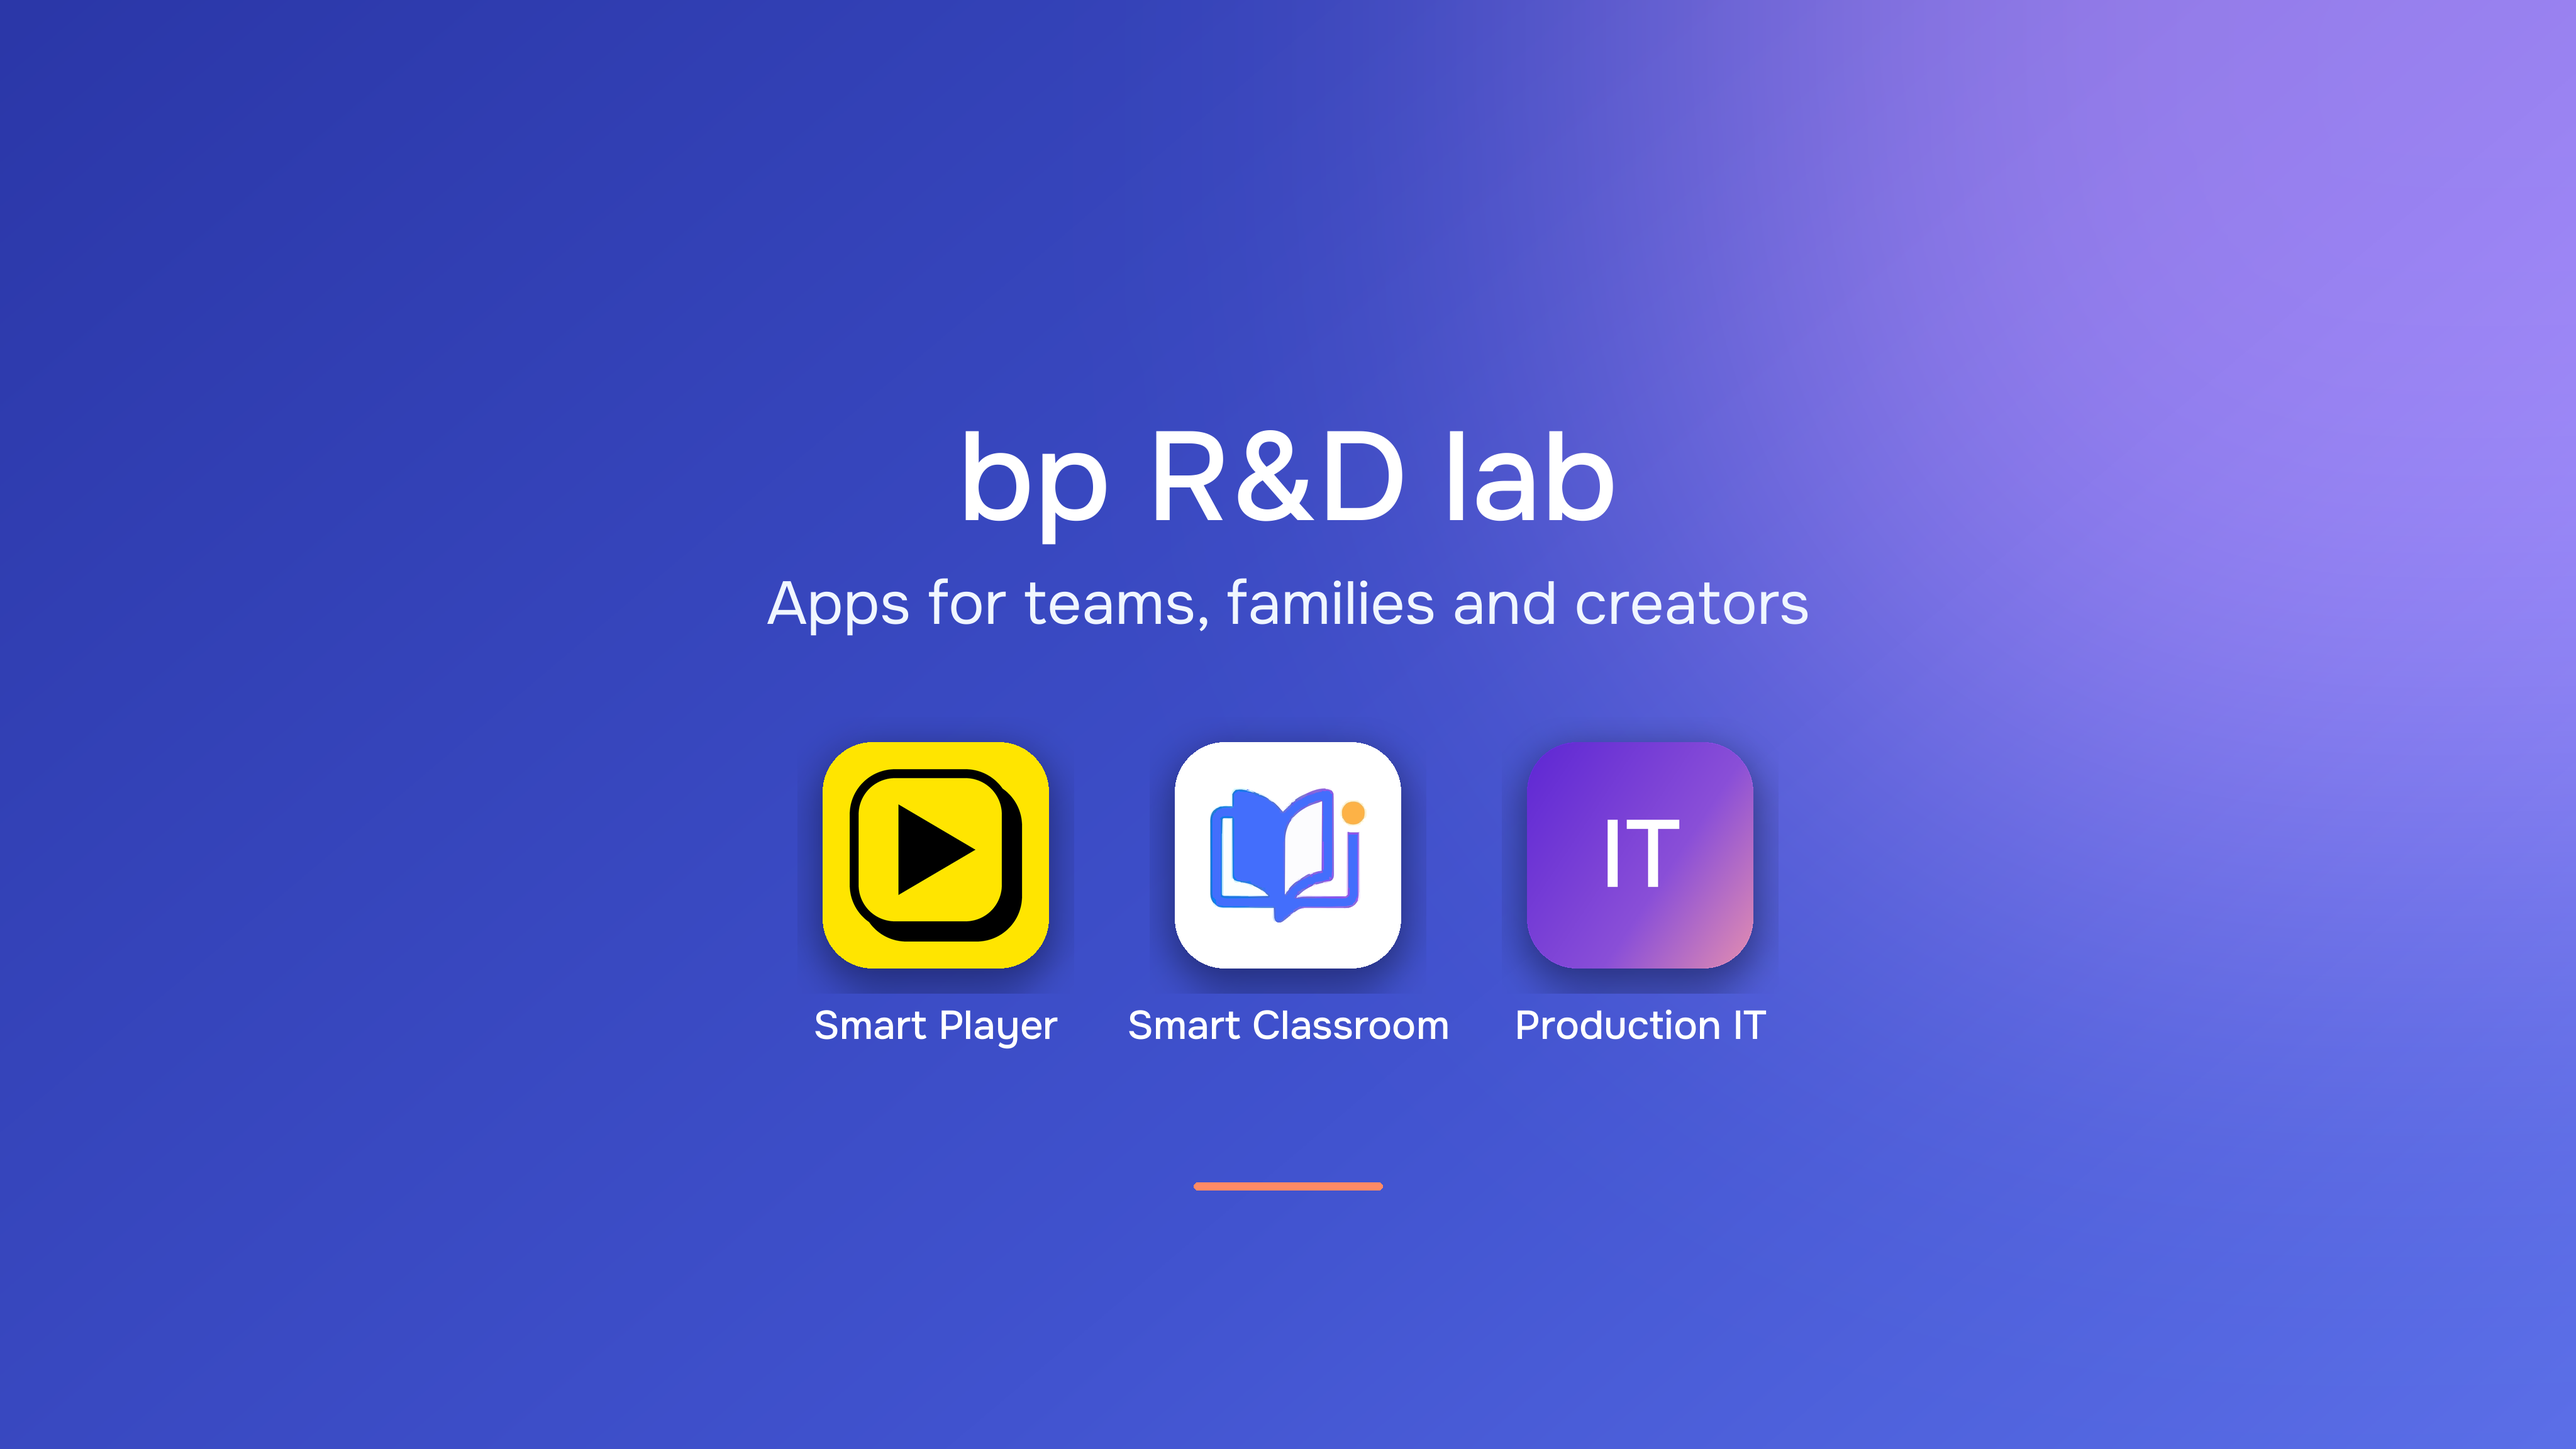
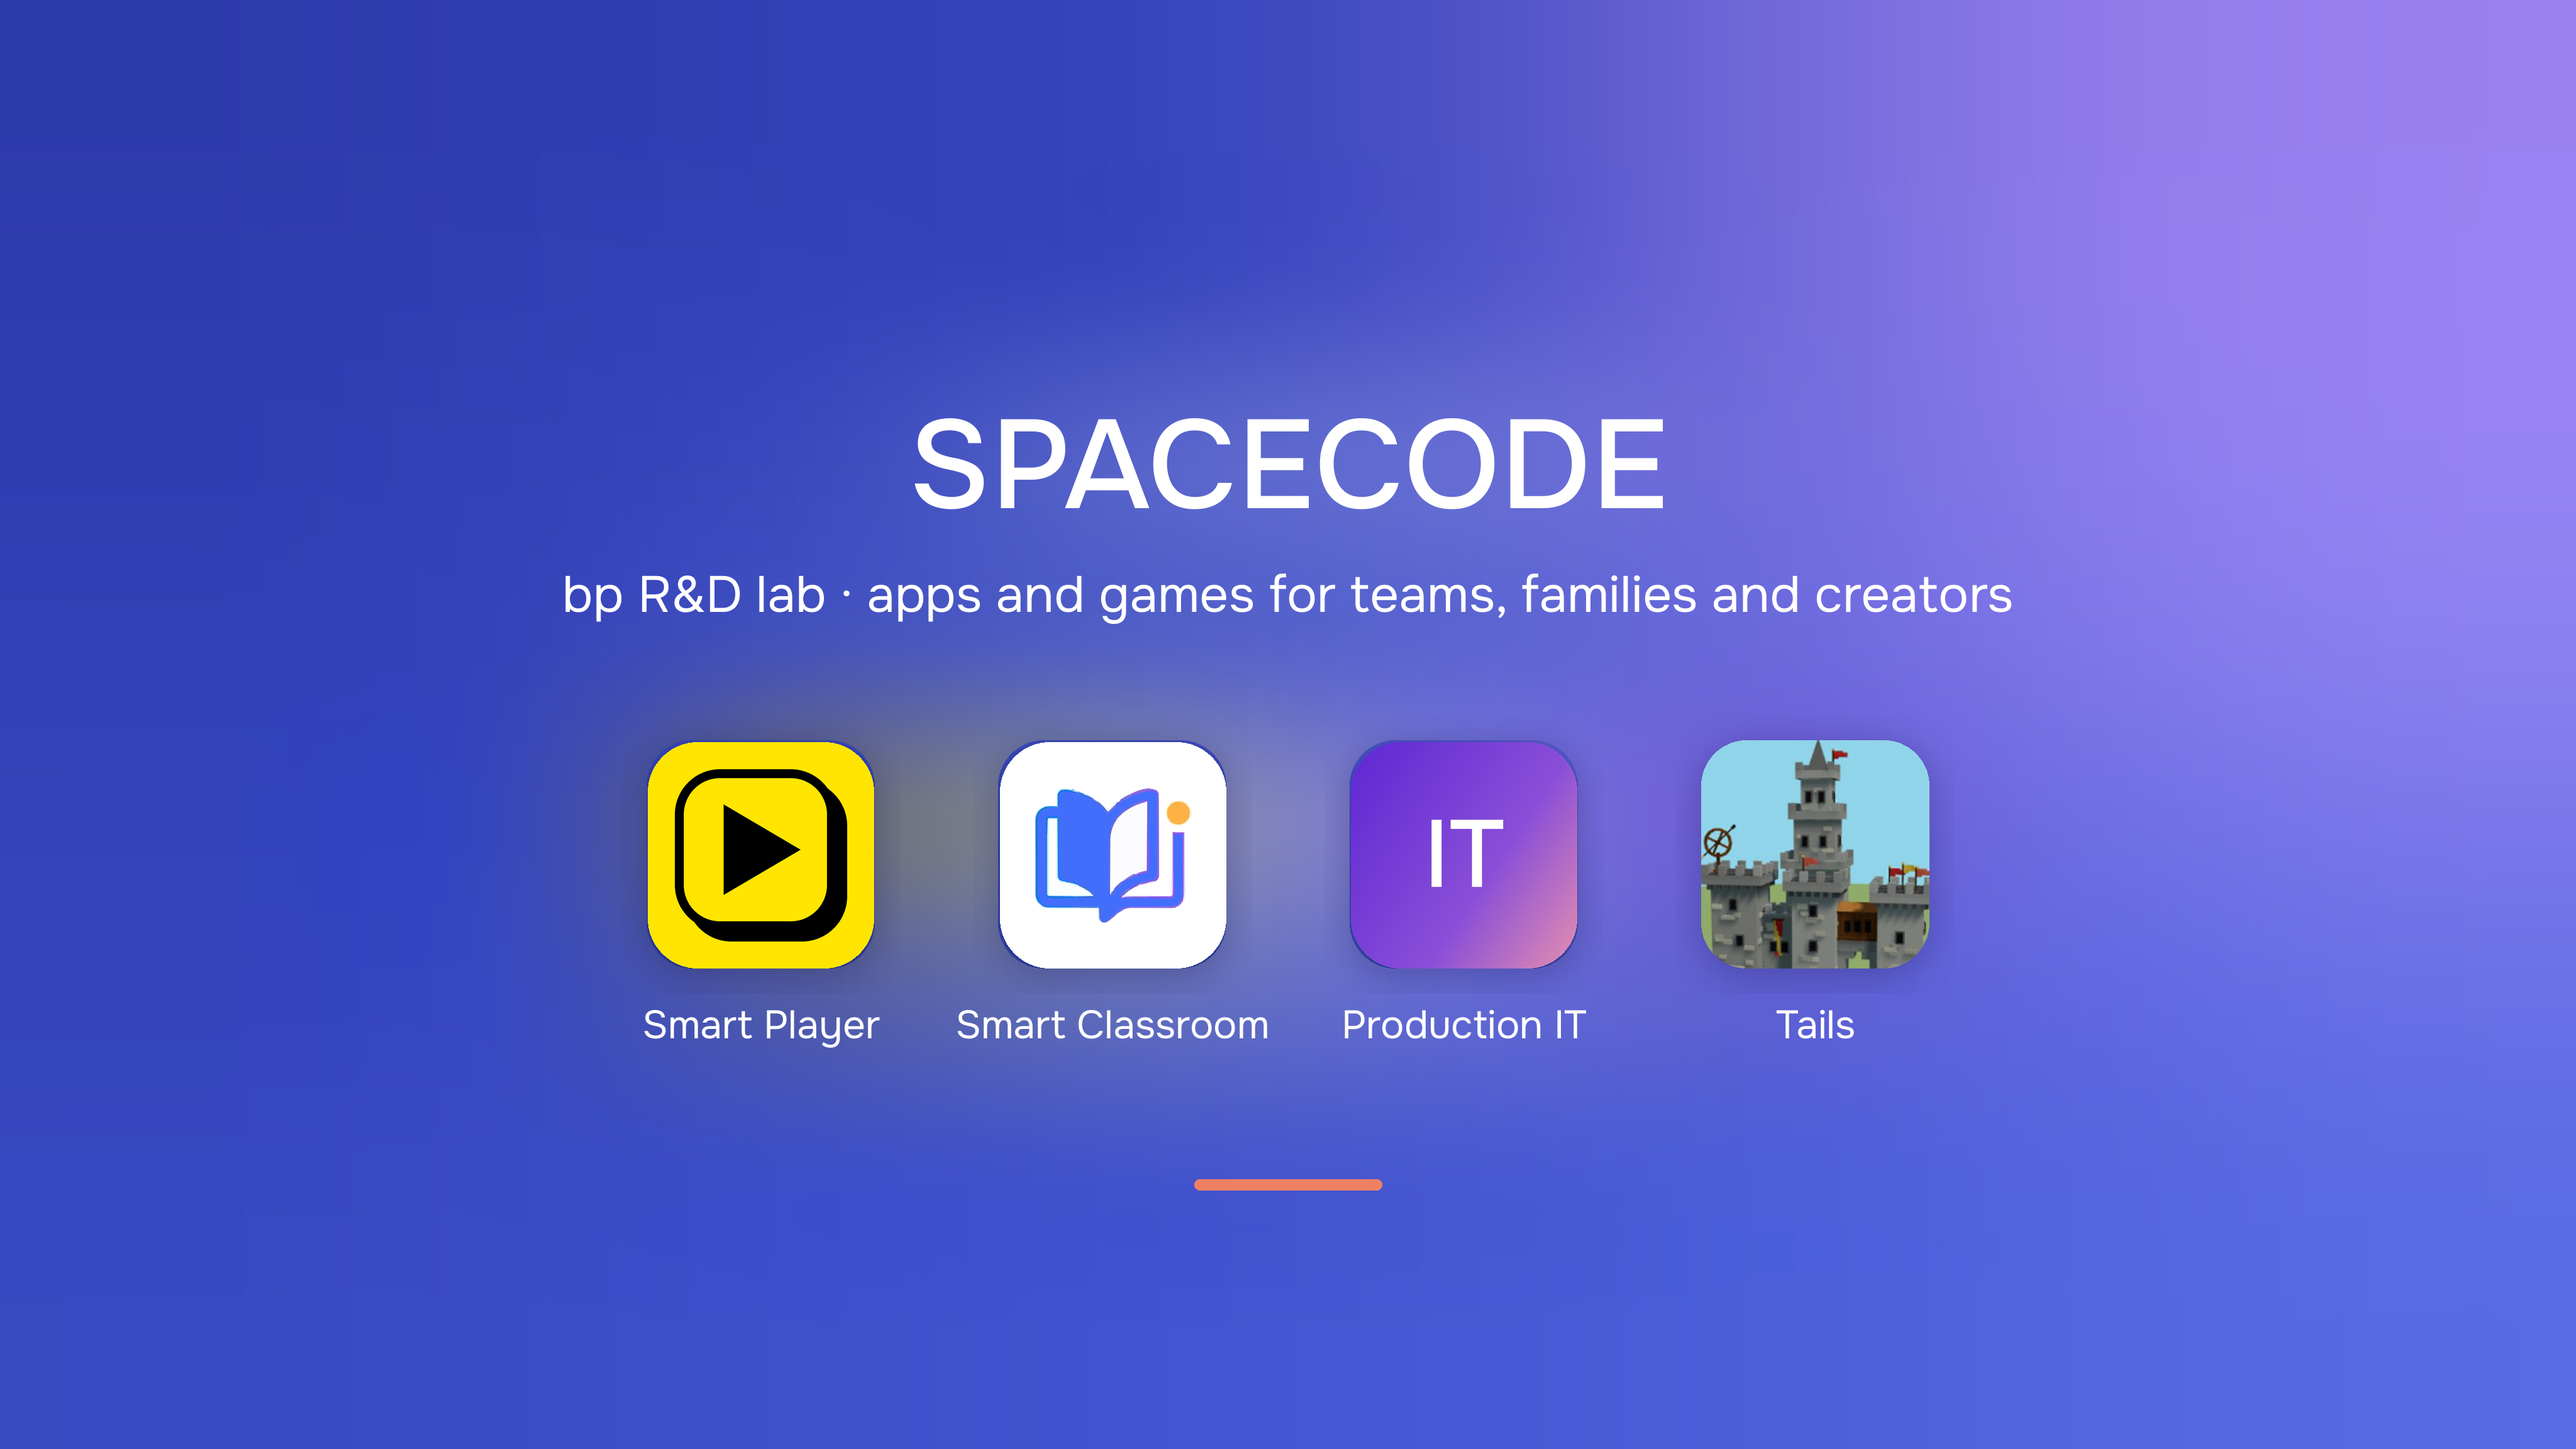
Production IT 1.3: значки Material Symbols по всему приложению (главный экран, чаты, звонок); страница разработчика SPACECODE с игрой «Хвосты»

Changed region(s): [[0.2188, 0.25, 0.7812, 0.75]]

diff --git a/gradle-build/src/prodit/java/online/magicbtn/player/LkCallActivity.kt b/gradle-build/src/prodit/java/online/magicbtn/player/LkCallActivity.kt
@@ -222,6 +222,7 @@ class LkCallActivity : Activity() {
             } else {
                 stage.addView(local.root, FrameLayout.LayoutParams(-1, -1).apply { setMargins(dp(8), 0, dp(8), 0) })
             }
+            Fonts.apply(stage)
             return
         }
         // трое и больше: сетка по 2 в ряд
@@ -240,6 +241,7 @@ class LkCallActivity : Activity() {
             grid.addView(line, LinearLayout.LayoutParams(-1, 0, 1f))
         }
         stage.addView(grid, FrameLayout.LayoutParams(-1, -1))
+        Fonts.apply(stage)   // значки Material Symbols и в подписях, которые меняются во время звонка
     }
 
     private fun control(icon: String, go: () -> Unit): TextView {

diff --git a/src/online/magicbtn/player/Icons.java b/src/online/magicbtn/player/Icons.java
@@ -72,7 +72,20 @@ final class Icons {
             "‹", "\ue5cb",
             "\ud83d\udce5", "\uf090",
             "\ud83d\udd04", "\ue5d5",
-            "\ud83d\udcf2", "\uf2cd"
+            "\ud83d\udcf2", "\uf2cd",
+            // 05.11.2026 Production IT: календарь, компания, профиль, бэклог, звонок, чат
+            "\ud83d\udcc5", "\uebcc",
+            "\ud83c\udfe2", "\ue7ee",
+            "\ud83d\udc64", "\ue7fd",
+            "\ud83d\udccb", "\ue85d",
+            "\ud83c\udfa4", "\ue029",
+            "\ud83d\udd07", "\ue02b",
+            "\ud83d\udcf7", "\ue04b",
+            "\u25a6", "\ue8f3",
+            "\u21c4", "\ue8d4",
+            "\u27a4", "\ue163",
+            "\uff0b", "\ue145",
+            "\u2197", "\uf1e1",
     };
     private static final String FILLED = "♥⏺★";
     private static final Map<String, String> MAP = new HashMap<>();
